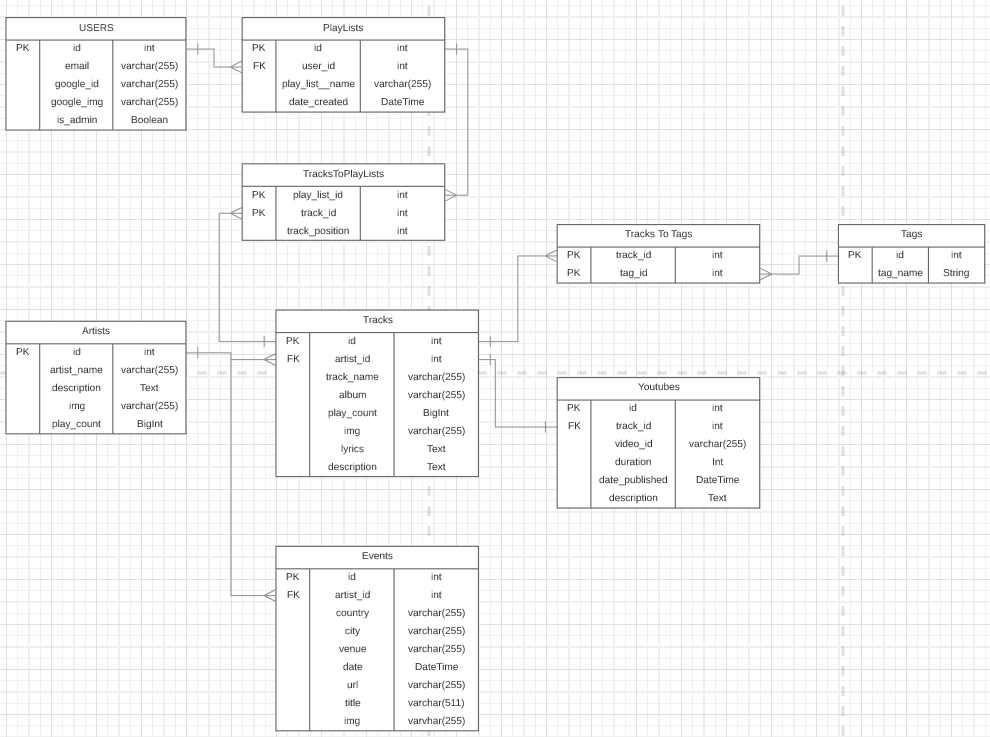
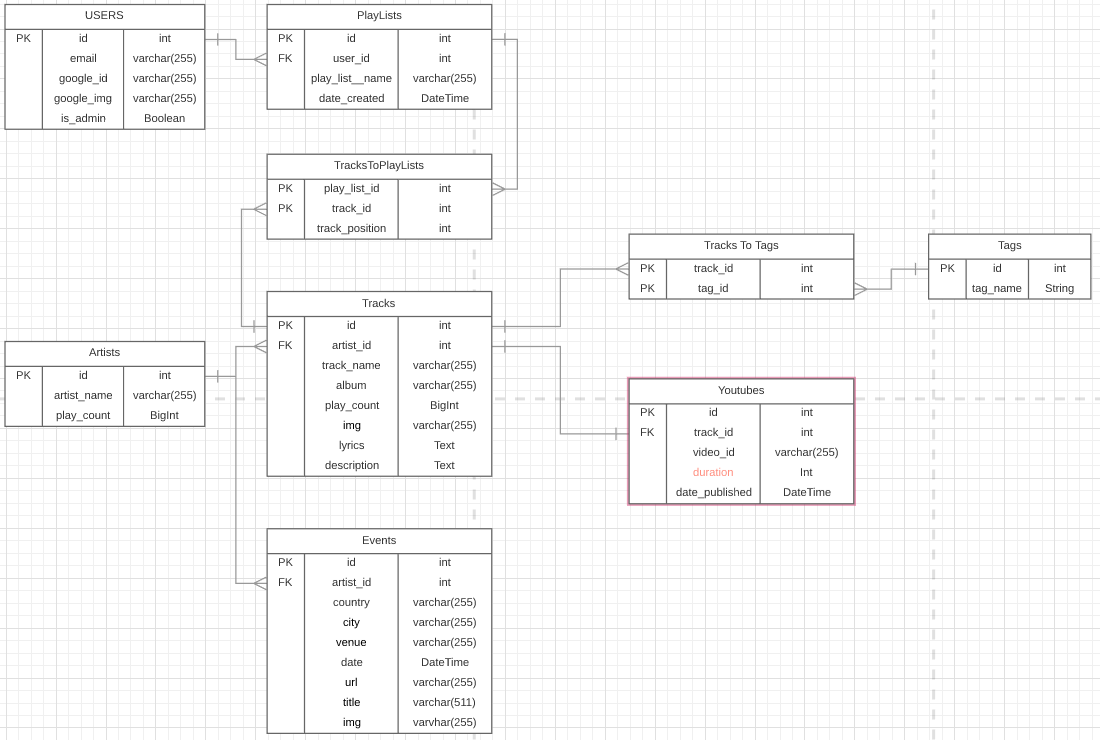
Update DB removed fields - Artists.{img, description} & Youtubes.description + NEW ERD

diff --git a/db/scripts/mysql/fill_database.py b/db/scripts/mysql/fill_database.py
@@ -32,7 +32,7 @@ class MysqlScripts:
 
             # Artist
             for artist_dict in artists_list:
-                artist = Artist(artist_dict['name'], artist_dict['description'], artist_dict['img'], artist_dict['play_count'])
+                artist = Artist(artist_dict['name'], artist_dict['play_count'])
                 artist_track_list = artist_dict['tracks']
                 artist_event_list = artist_dict['events']
                 try:
@@ -58,7 +58,7 @@ class MysqlScripts:
                         continue
 
                     # Youtube
-                    youtube = Youtube(track_id, youtube_dict['video_id'], youtube_dict['duration'], youtube_dict['date_published'], youtube_dict['description'])
+                    youtube = Youtube(track_id, youtube_dict['video_id'], youtube_dict['duration'], youtube_dict['date_published'])
                     try:
                         youtube.insert(cursor)
                         self.yotubes += 1

diff --git a/db/entities/entities.py b/db/entities/entities.py
@@ -40,10 +40,8 @@ class PlayList(AbstractTable):
 class Artist(AbstractTable):
     table_name = 'artists'
 
-    def __init__(self, artist_name, description, img, play_count):
+    def __init__(self, artist_name, play_count):
         self.artist_name = artist_name.title()
-        self.description = description
-        self.img = img
         self.play_count = play_count
 
 
@@ -80,12 +78,11 @@ class TrackToPlayList(AbstractTable):
 class Youtube(AbstractTable):
     table_name = 'youtubes'
 
-    def __init__(self, track_id, video_id, duration, date_published, description):
+    def __init__(self, track_id, video_id, duration, date_published):
         self.track_id = track_id
         self.video_id = video_id
         self.duration = duration
         self.date_published = date_published
-        self.description = description
 
 
 class Tag(AbstractTable):
